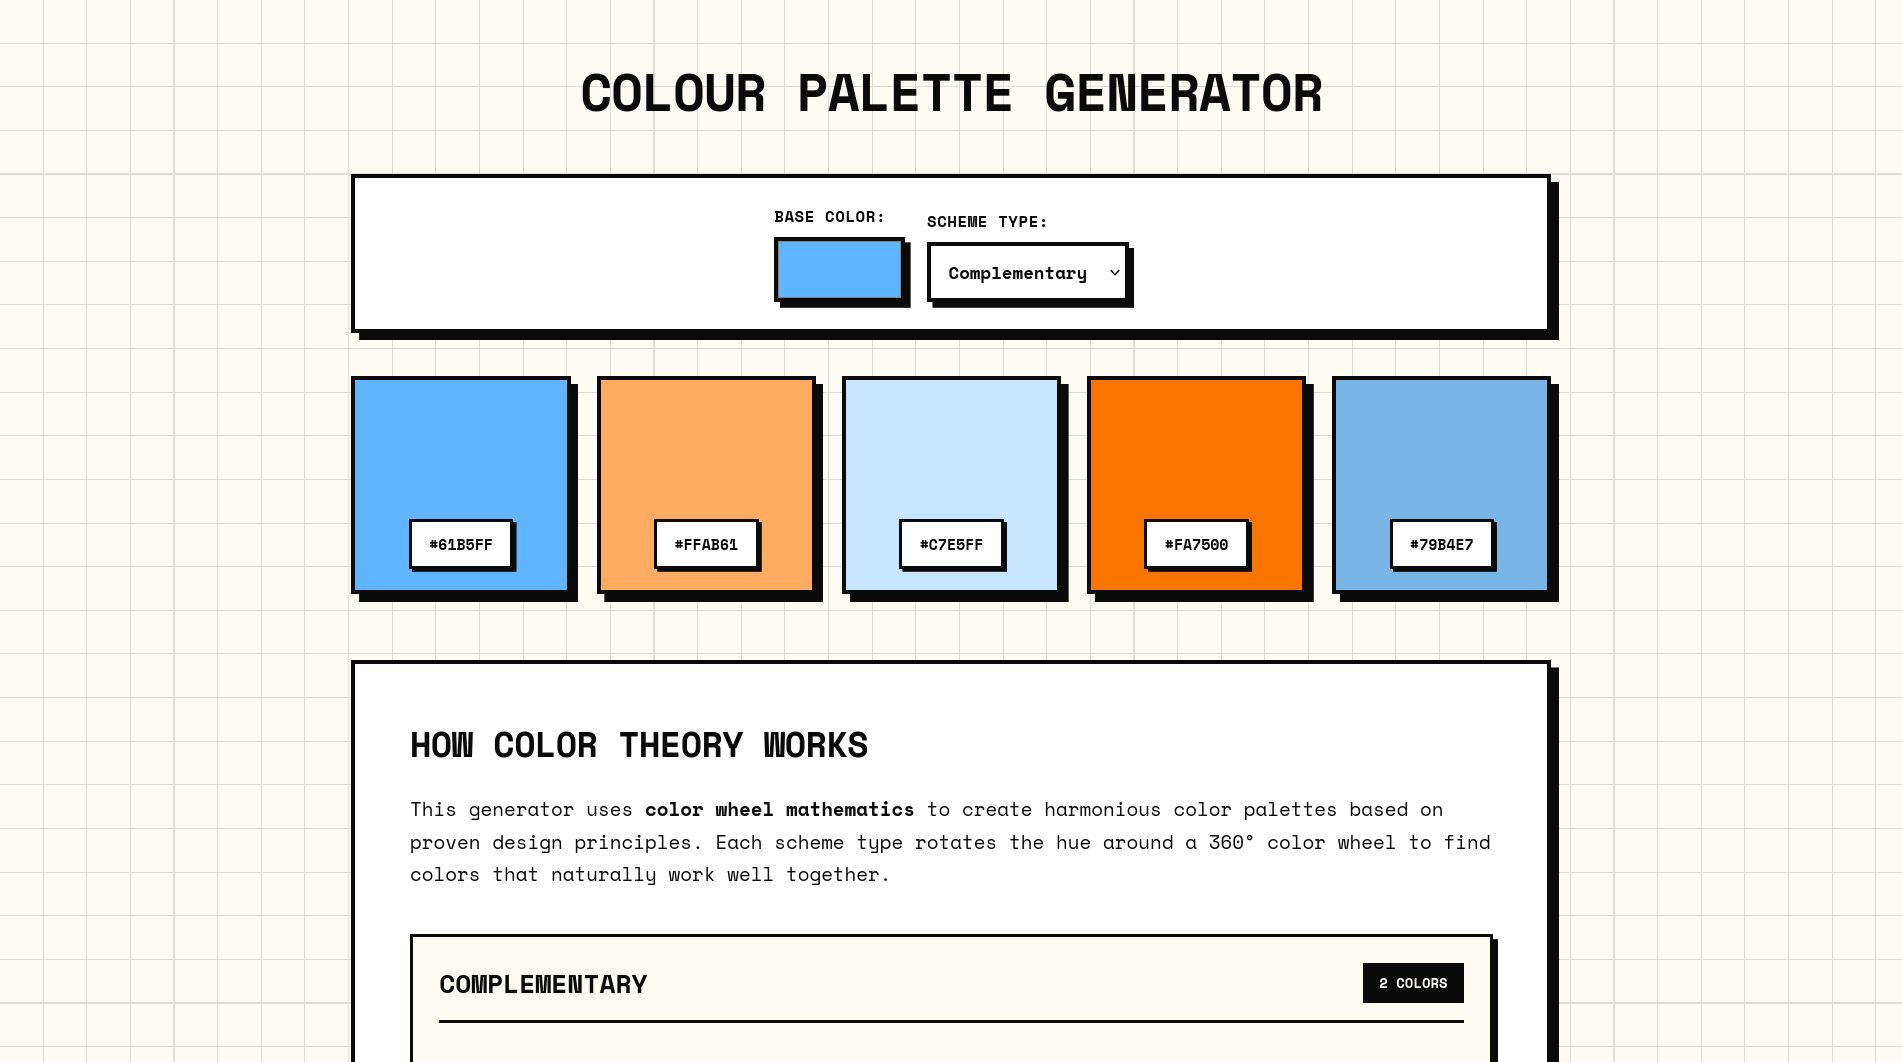
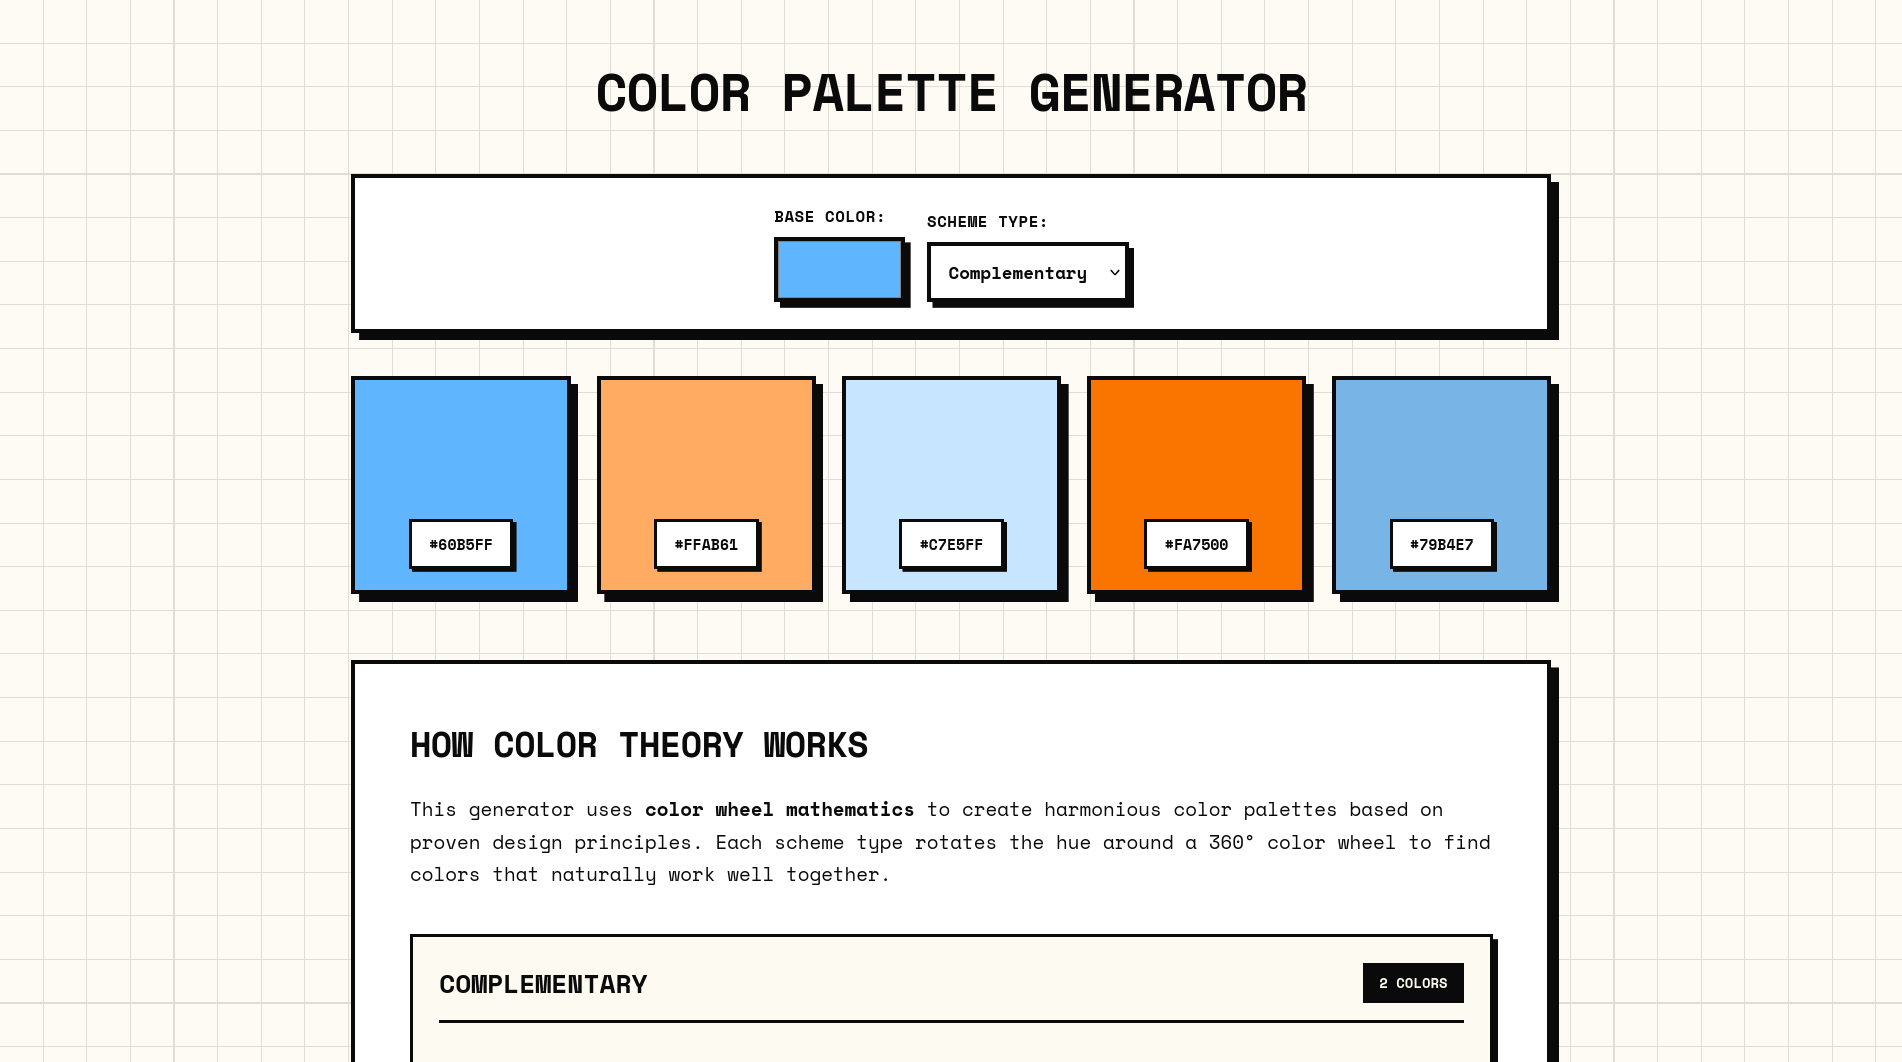
fix: update typo in the heading and update og image

Changed region(s): [[0.3102, 0.0621, 0.7135, 0.1243]]

diff --git a/assignments/colour_palette_generator/index.html b/assignments/colour_palette_generator/index.html
@@ -121,7 +121,7 @@
     </script>
   </head>
   <body>
-    <h1>Colour Palette Generator</h1>
+    <h1>Color Palette Generator</h1>
 
     <div class="container">
       <div class="controls">
